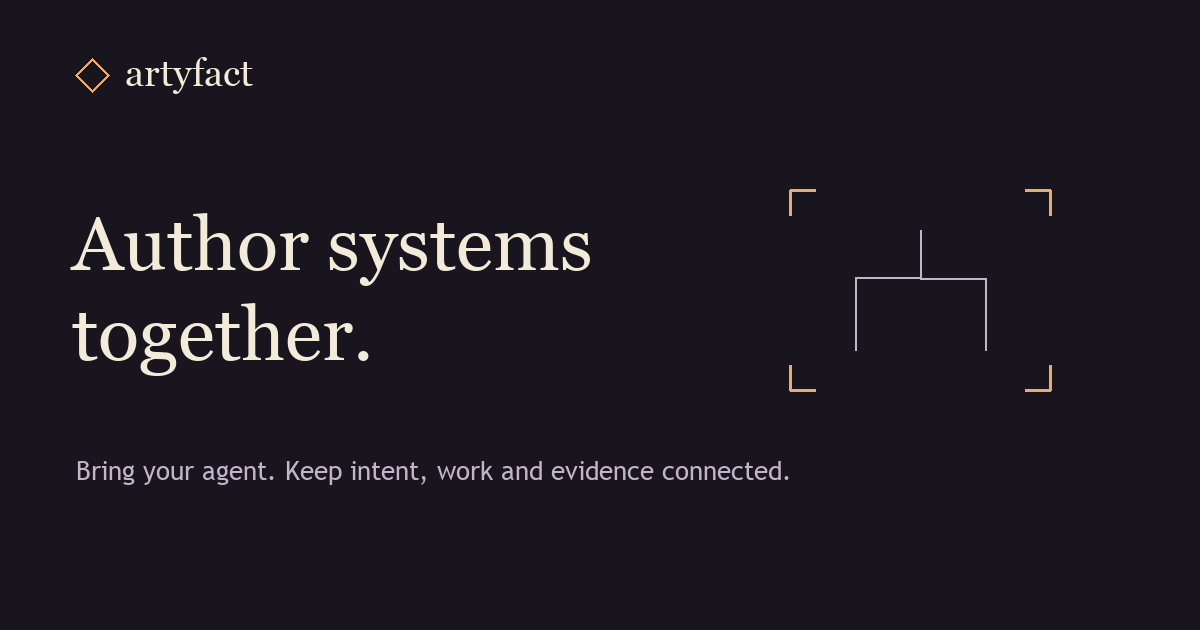
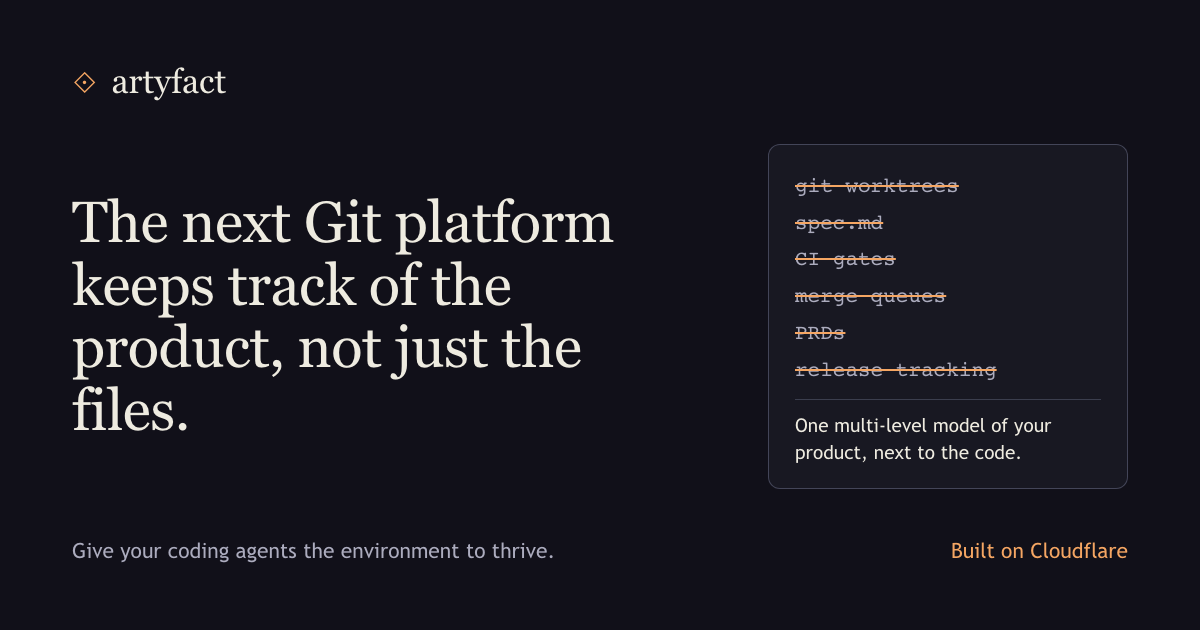
Update social image for the new home page

diff --git a/apps/site/scripts/social-card.html b/apps/site/scripts/social-card.html
@@ -1,0 +1,25 @@
+<!doctype html>
+<html><head><meta charset="utf-8">
+<link rel="stylesheet" href="../src/styles/tokens.css"><link rel="stylesheet" href="../src/styles/whimsy.css">
+<style>
+  * { box-sizing: border-box; margin: 0; }
+  html, body { width: 1200px; height: 630px; overflow: hidden; }
+  body { background: var(--color-background); color: var(--color-text-primary); font-family: var(--font-body); padding: 64px 72px; display: grid; grid-template-columns: 1fr 360px; grid-template-rows: auto 1fr auto; column-gap: 56px; }
+  .brand { grid-column: 1 / -1; display: flex; align-items: center; gap: 14px; font: 400 34px/1 var(--font-display); }
+  .brand i { color: var(--color-brand-primary); font-style: normal; }
+  h1 { align-self: center; font: 400 58px/1.08 var(--font-display); letter-spacing: -0.01em; }
+  .stack { align-self: center; border: 1px solid color-mix(in oklch, var(--color-border) 55%, transparent); border-radius: 12px; padding: 22px 26px; background: var(--color-background-secondary); }
+  .stack s { display: block; font: 500 21px/1.75 var(--font-code); color: var(--color-text-secondary); text-decoration-thickness: 2px; text-decoration-color: var(--color-brand-primary); }
+  .stack p { margin-top: 12px; padding-top: 12px; border-top: 1px solid color-mix(in oklch, var(--color-border) 45%, transparent); font-size: 19px; line-height: 1.4; }
+  .foot { grid-column: 1 / -1; display: flex; justify-content: space-between; font-size: 21px; color: var(--color-text-secondary); }
+  .foot b { color: var(--color-brand-primary); font-weight: 400; }
+</style></head>
+<body>
+  <div class="brand"><i>⟐</i> artyfact</div>
+  <h1>The next Git platform keeps track of the product, not just the files.</h1>
+  <div class="stack">
+    <s>git worktrees</s><s>spec.md</s><s>CI gates</s><s>merge queues</s><s>PRDs</s><s>release tracking</s>
+    <p>One multi-level model of your product, next to the code.</p>
+  </div>
+  <div class="foot"><span>Give your coding agents the environment to thrive.</span><b>Built on Cloudflare</b></div>
+</body></html>

diff --git a/apps/site/src/render.tsx b/apps/site/src/render.tsx
@@ -30,7 +30,7 @@ function document(meta: { title: string; description: string }, path: PagePath |
     '<link rel="icon" href="/favicon.svg" type="image/svg+xml">' +
     '<meta property="og:title" content="' + title + '"><meta property="og:description" content="' + description + '">' +
     '<meta property="og:type" content="website">' + (indexed ? '<meta property="og:url" content="' + escapeAttr(origin + path) + '">' : '') +
-    '<meta property="og:image" content="' + origin + '/social.png"><meta property="og:image:width" content="1200"><meta property="og:image:height" content="630"><meta property="og:image:alt" content="Artyfact. Author systems together. Bring your agent. Keep intent, work and evidence connected.">' +
+    '<meta property="og:image" content="' + origin + '/social.png"><meta property="og:image:width" content="1200"><meta property="og:image:height" content="630"><meta property="og:image:alt" content="Artyfact. The next Git platform keeps track of the product, not just the files. Familiar practices crossed out, replaced by one multi-level model of your product. Built on Cloudflare.">' +
     '<meta name="twitter:card" content="summary_large_image">' +
     (entry.css || []).map((css: string) => '<link rel="stylesheet" href="/' + escapeAttr(css) + '">').join('');
   const needs = [hasStory && 'step through the example', hasExplorer && 'switch views', hasCopy && 'use the copy buttons'].filter(Boolean).join(' or ');
